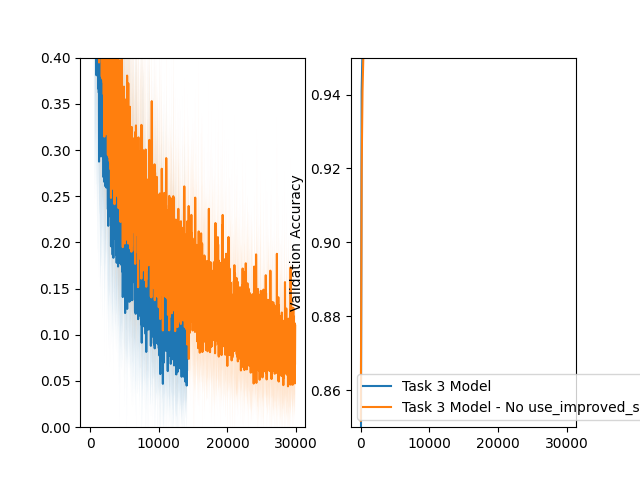
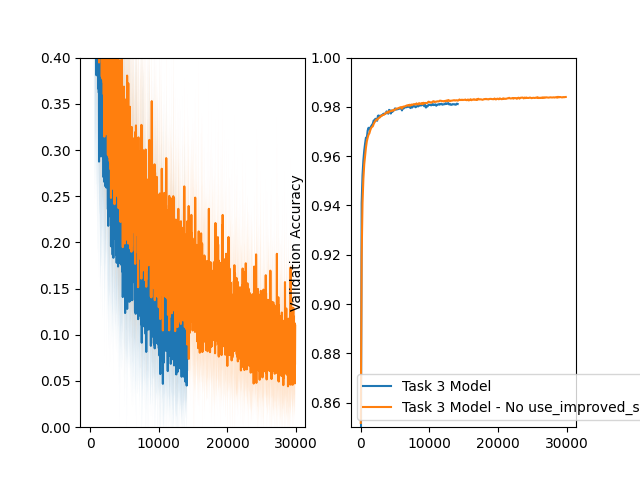
updated plots

diff --git a/assignment2/task3.py b/assignment2/task3.py
@@ -68,7 +68,7 @@ def main():
         train_history_no_shuffle["loss"], "Task 3 Model - No use_improved_sigmoid", npoints_to_average=10)
     plt.ylim([0, 0.4])
     plt.subplot(1, 2, 2)
-    plt.ylim([0.85, 0.95])
+    plt.ylim([0.85, 1.00])
     utils.plot_loss(val_history["accuracy"], "Task 3 Model")
     utils.plot_loss(
         val_history_no_shuffle["accuracy"], "Task 3 Model - No use_improved_sigmoid")
@@ -134,7 +134,7 @@ def main():
         train_history_no_shuffle["loss"], "Task 3 Model - No use_improved_weight_init", npoints_to_average=10)
     plt.ylim([0, 0.4])
     plt.subplot(1, 2, 2)
-    plt.ylim([0.85, 0.95])
+    plt.ylim([0.85, 1.00])
     utils.plot_loss(val_history["accuracy"], "Task 3 Model")
     utils.plot_loss(
         val_history_no_shuffle["accuracy"], "Task 3 Model - No use_improved_weight_init")
@@ -200,7 +200,7 @@ def main():
         train_history_no_shuffle["loss"], "Task 3 Model - No use_momentum", npoints_to_average=10)
     plt.ylim([0, 0.4])
     plt.subplot(1, 2, 2)
-    plt.ylim([0.85, 0.95])
+    plt.ylim([0.85, 1.00])
     utils.plot_loss(val_history["accuracy"], "Task 3 Model")
     utils.plot_loss(
         val_history_no_shuffle["accuracy"], "Task 3 Model - No use_momentum")
